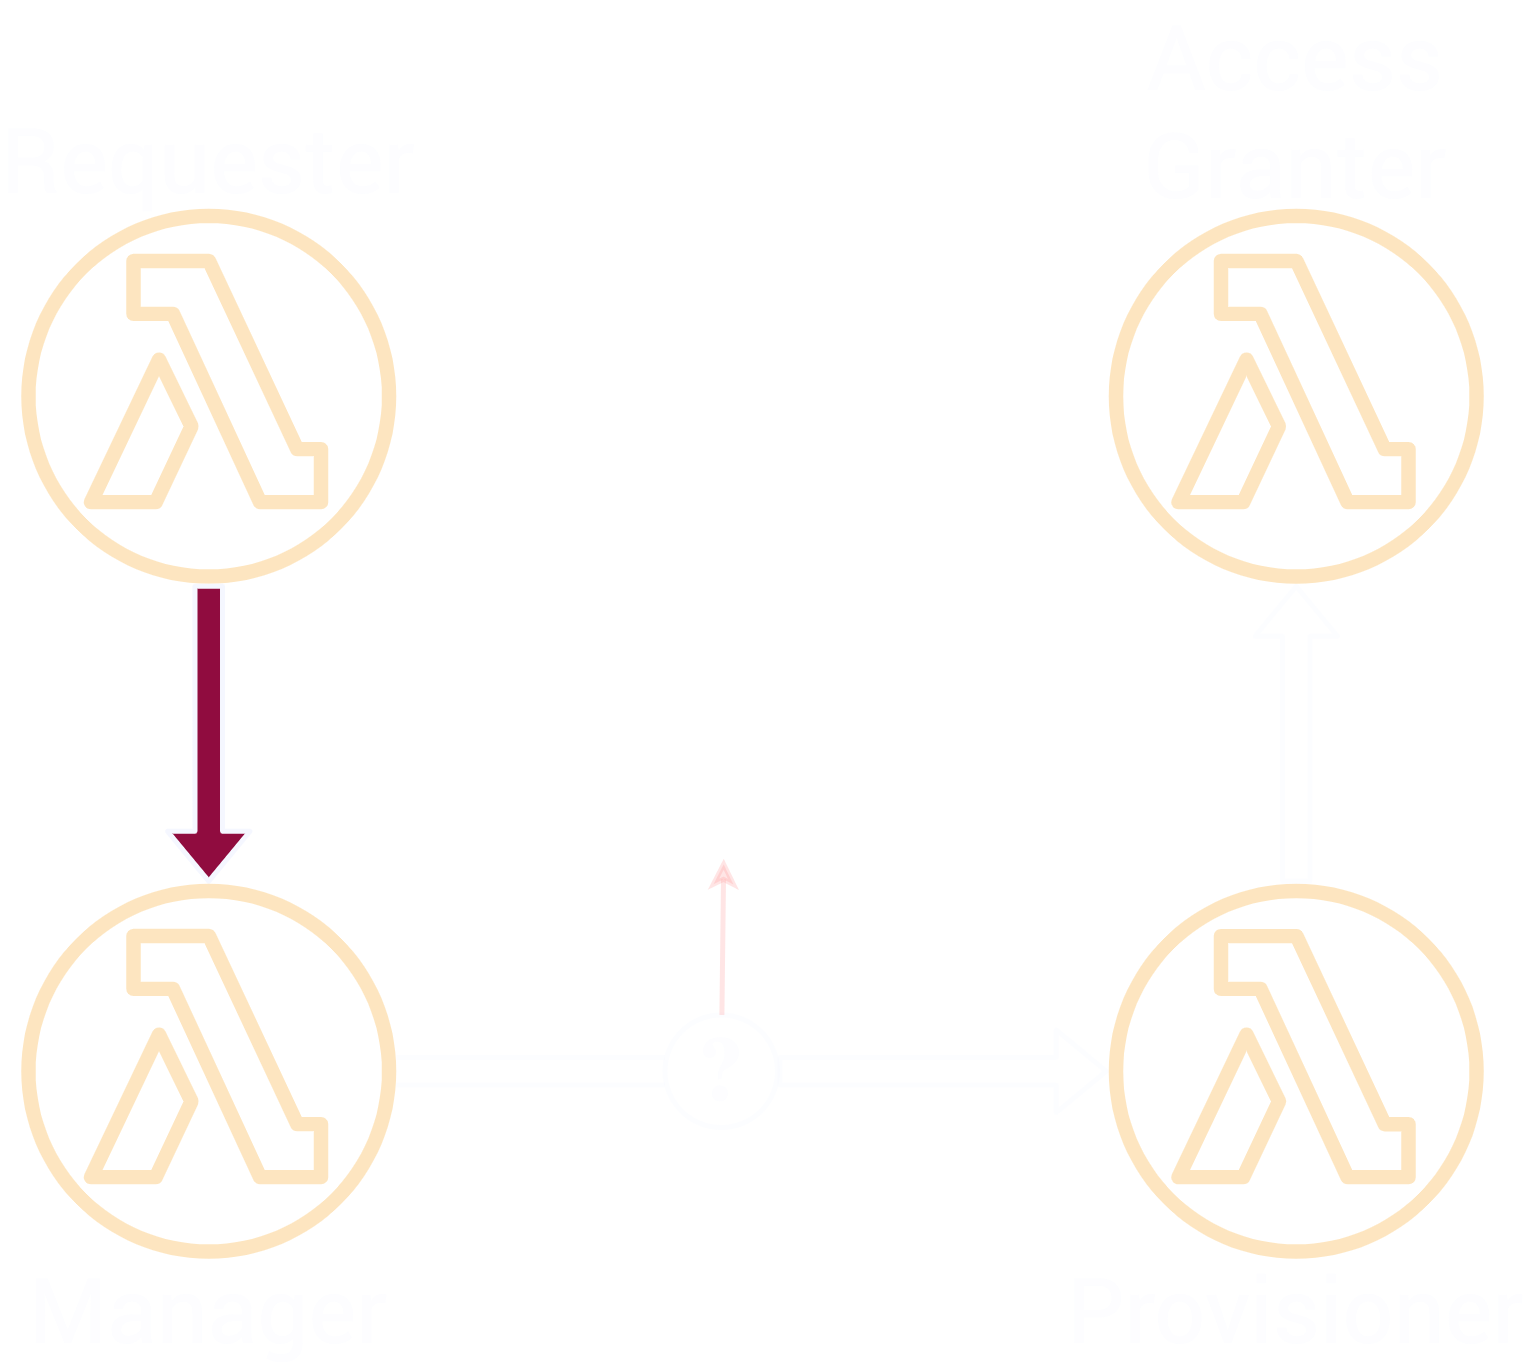
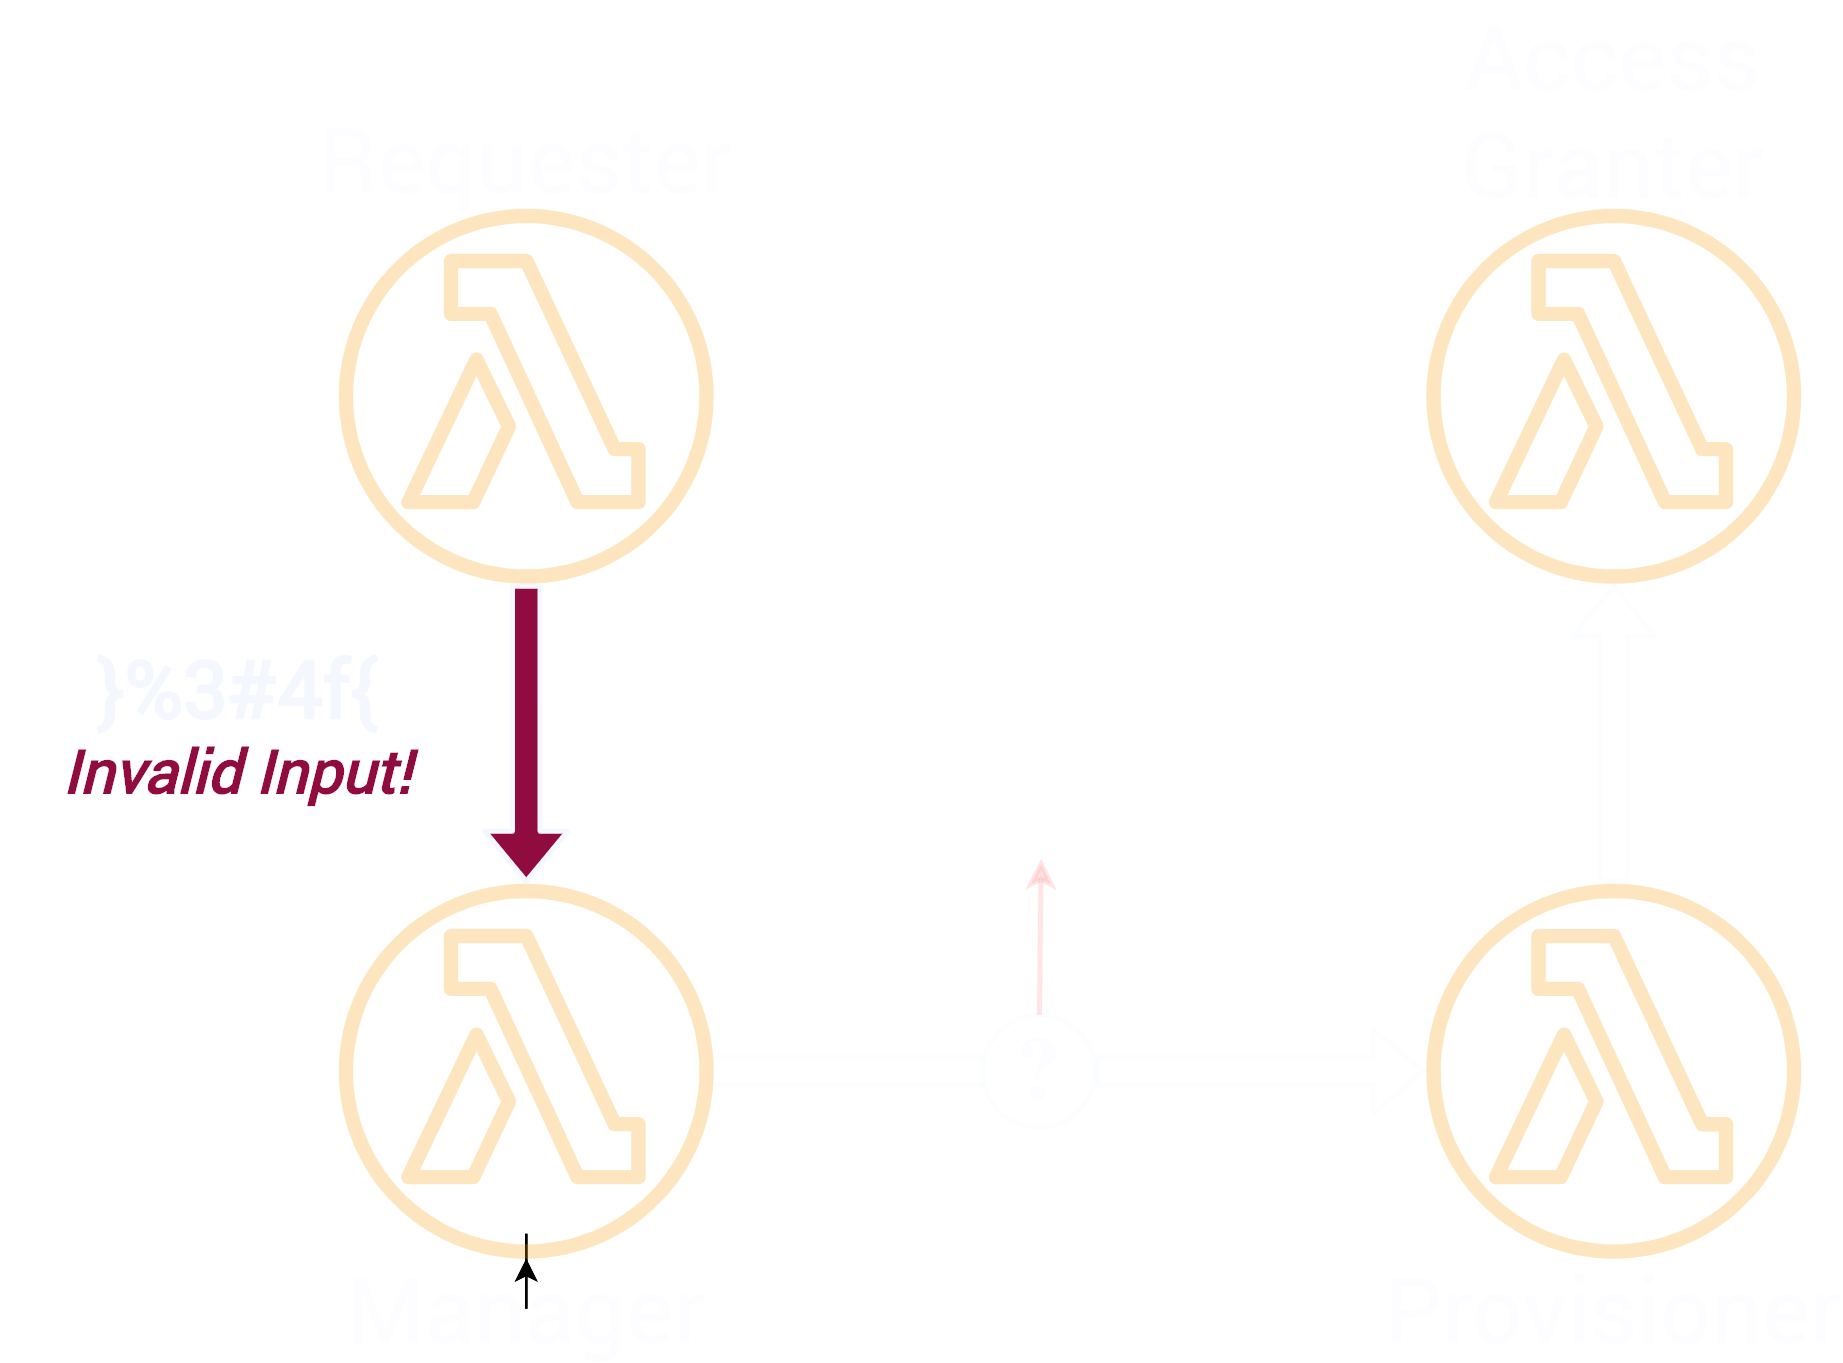
Update validation.png and reference it in case study

diff --git a/index.html b/index.html
@@ -363,6 +363,11 @@
           the failure could send the entire workflow to a screeching halt.
         </p>
 
+        <figure>
+          <img src="assets/images/workflow/validation.png" alt="Invalid input">
+          <figcaption>Figure 3: What if there's an invalid input?</figcaption>
+        </figure>
+
         <p>
           Some form of error handling could prevent such an unfortunate
           occurrence, but should the ‘Manager’ validate its own input? It would
@@ -385,7 +390,7 @@
             alt="Inserting a proxy lambda in from of the Manager component"
             title="Proxy Lambda"
           />
-          <figcaption>Figure 3:</figcaption>
+          <figcaption>Figure 4: Proxy Lambda</figcaption>
         </figure>
 
         <p>
@@ -400,7 +405,7 @@
             alt="Branching step after the Manager makes a decision"
             title="Branching"
           />
-          <figcaption>Figure 4:</figcaption>
+          <figcaption>Figure 5:</figcaption>
         </figure>
 
         <p>
@@ -424,7 +429,7 @@
             alt="Workflow with the Fat Manager Orchestrator Lambda"
             title="Fat Manager"
           />
-          <figcaption>Figure 5:</figcaption>
+          <figcaption>Figure 6:</figcaption>
         </figure>
 
         <p>
@@ -439,7 +444,7 @@
             alt="Failure depicted on the Provisioner component"
             title="Failed Provisioner"
           />
-          <figcaption>Figure 6:</figcaption>
+          <figcaption>Figure 7:</figcaption>
         </figure>
 
         <p>
@@ -457,7 +462,7 @@
             alt="Addition of retry to the Fat Manager Orchertator Lambda"
             title="Fat Manager with Retry"
           />
-          <figcaption>Figure 7:</figcaption>
+          <figcaption>Figure 8:</figcaption>
         </figure>
 
         <p>
@@ -497,7 +502,7 @@
             alt="Diagram of only the orchestration layer in a workflow"
             title="Orchestration Layer"
           />
-          <figcaption>Figure 8:</figcaption>
+          <figcaption>Figure 9:</figcaption>
         </figure>
 
         <p>
@@ -544,7 +549,7 @@
             alt="AWS Step Functions Logo"
             title="Step Functions Logo"
           />
-          <figcaption>Figure 9:</figcaption>
+          <figcaption>Figure 10:</figcaption>
         </figure>
 
         <p>
